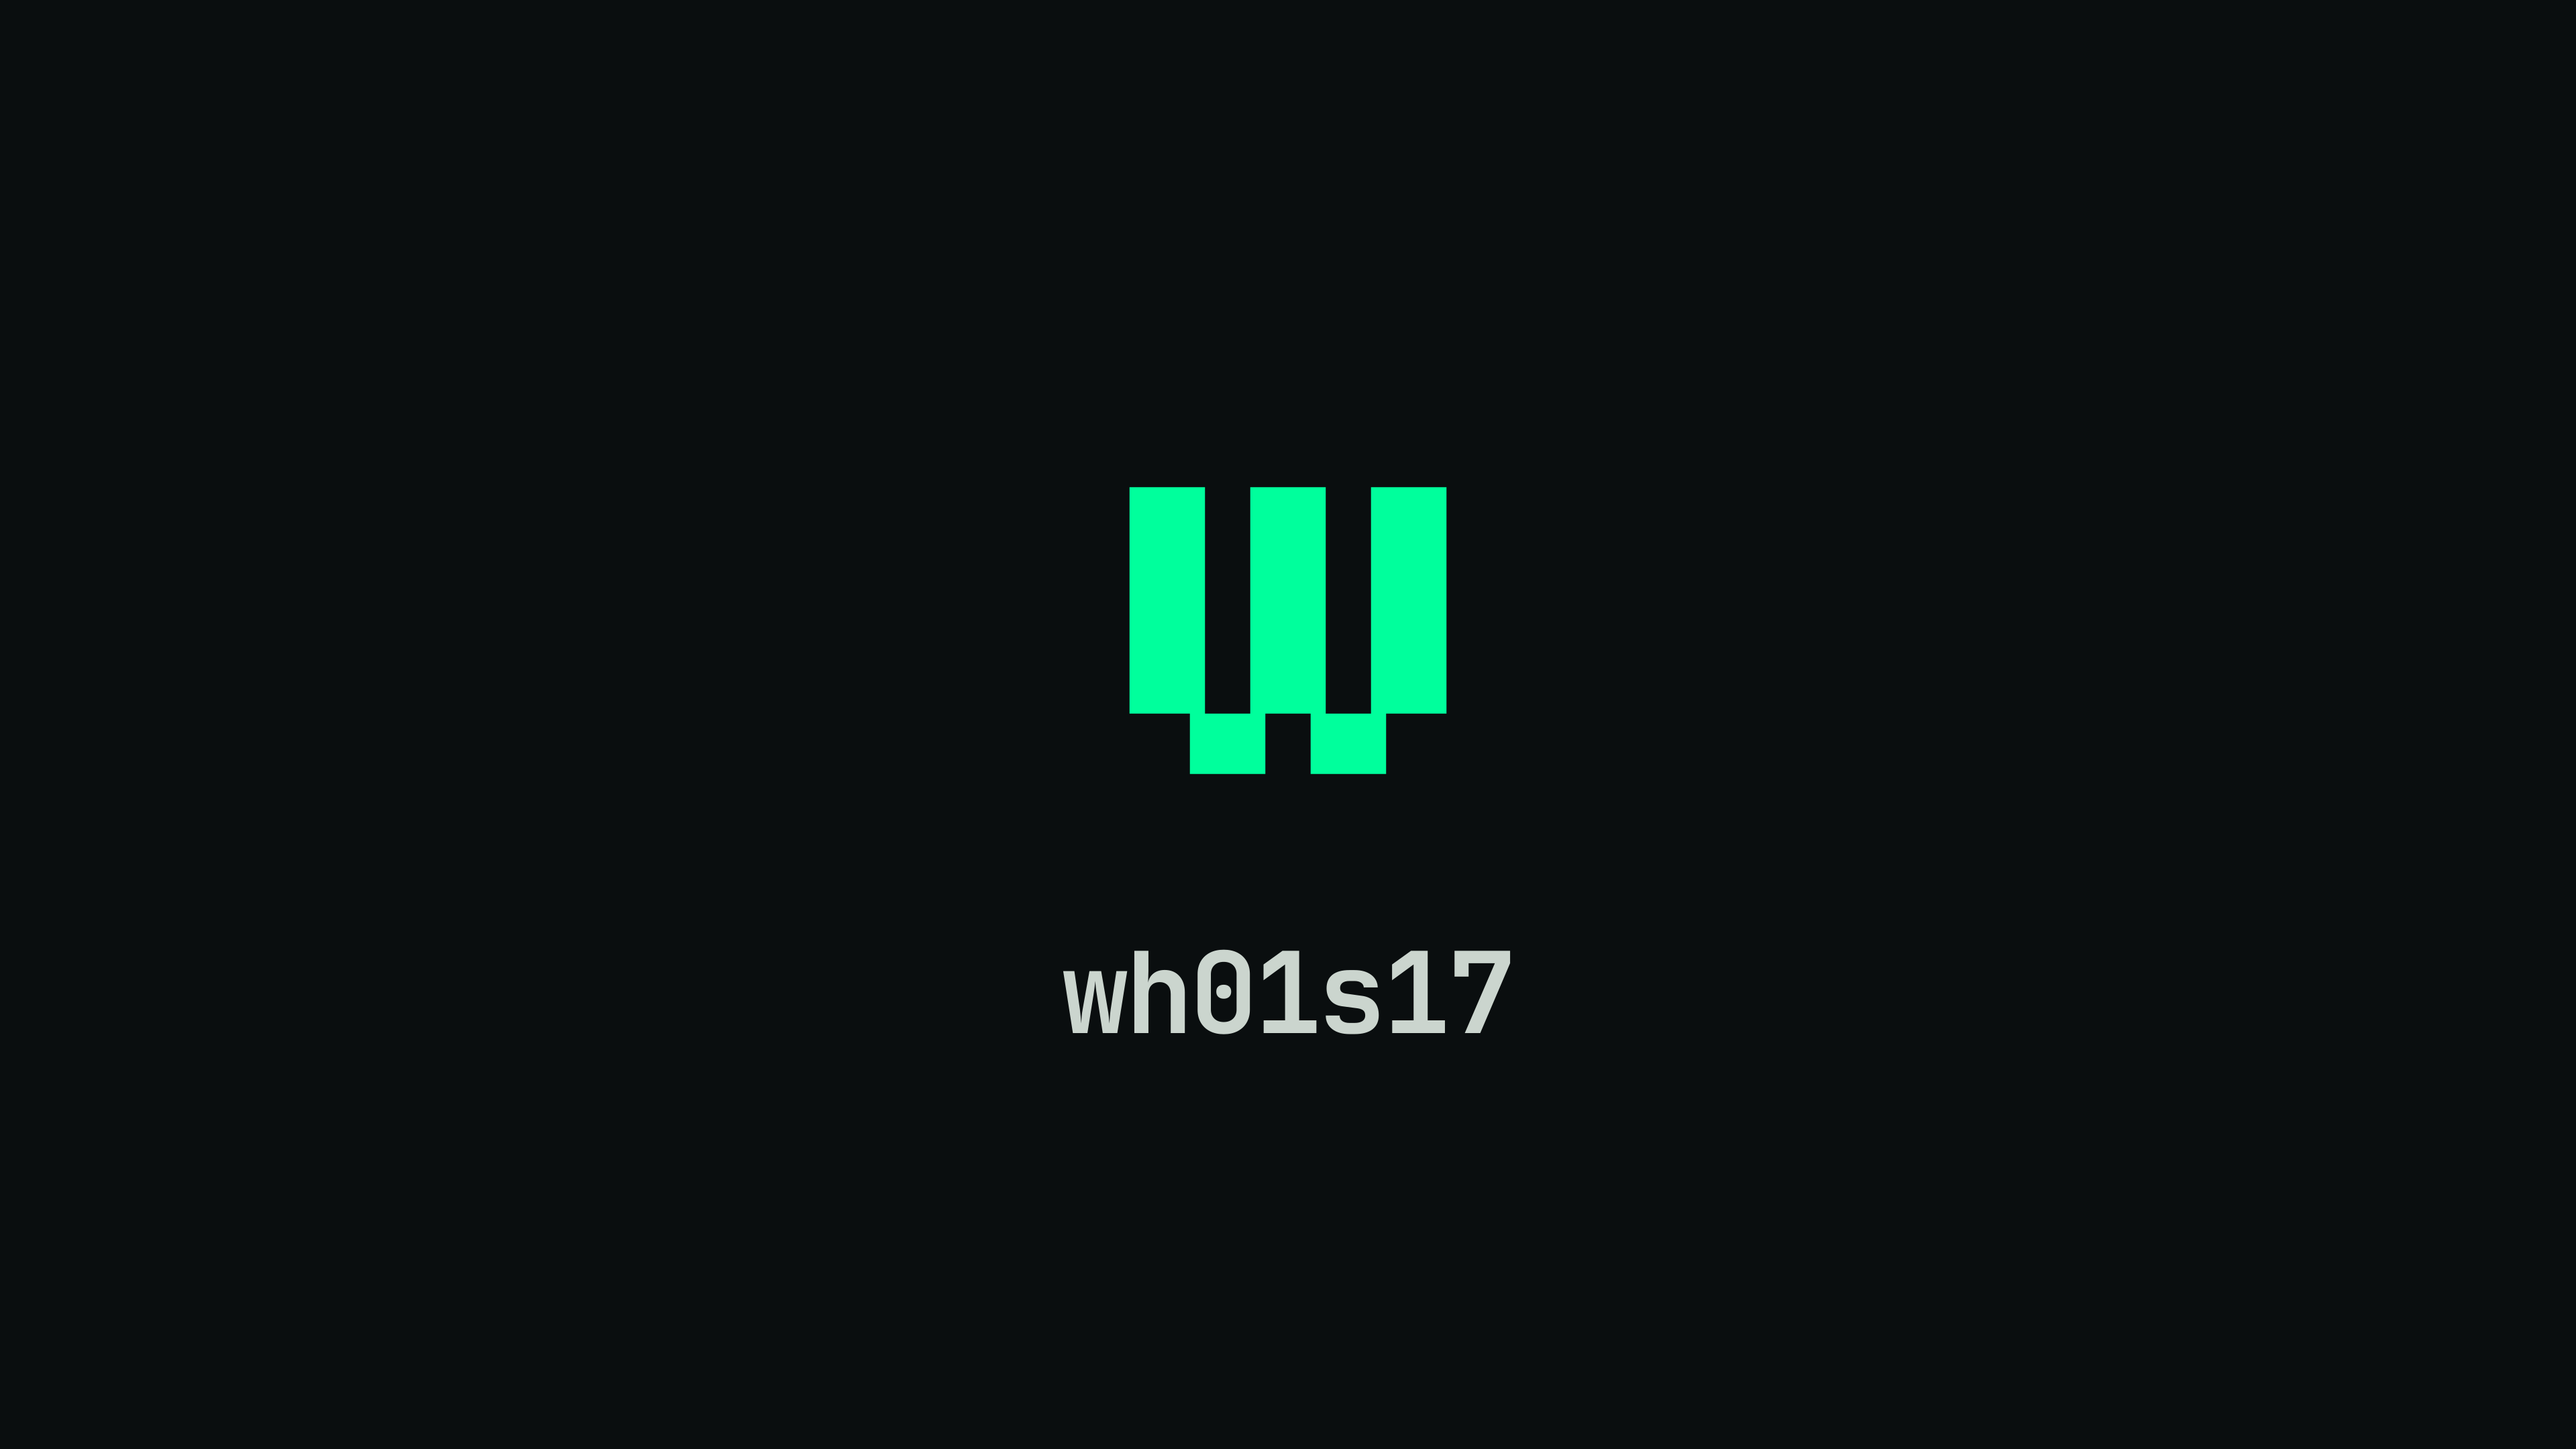
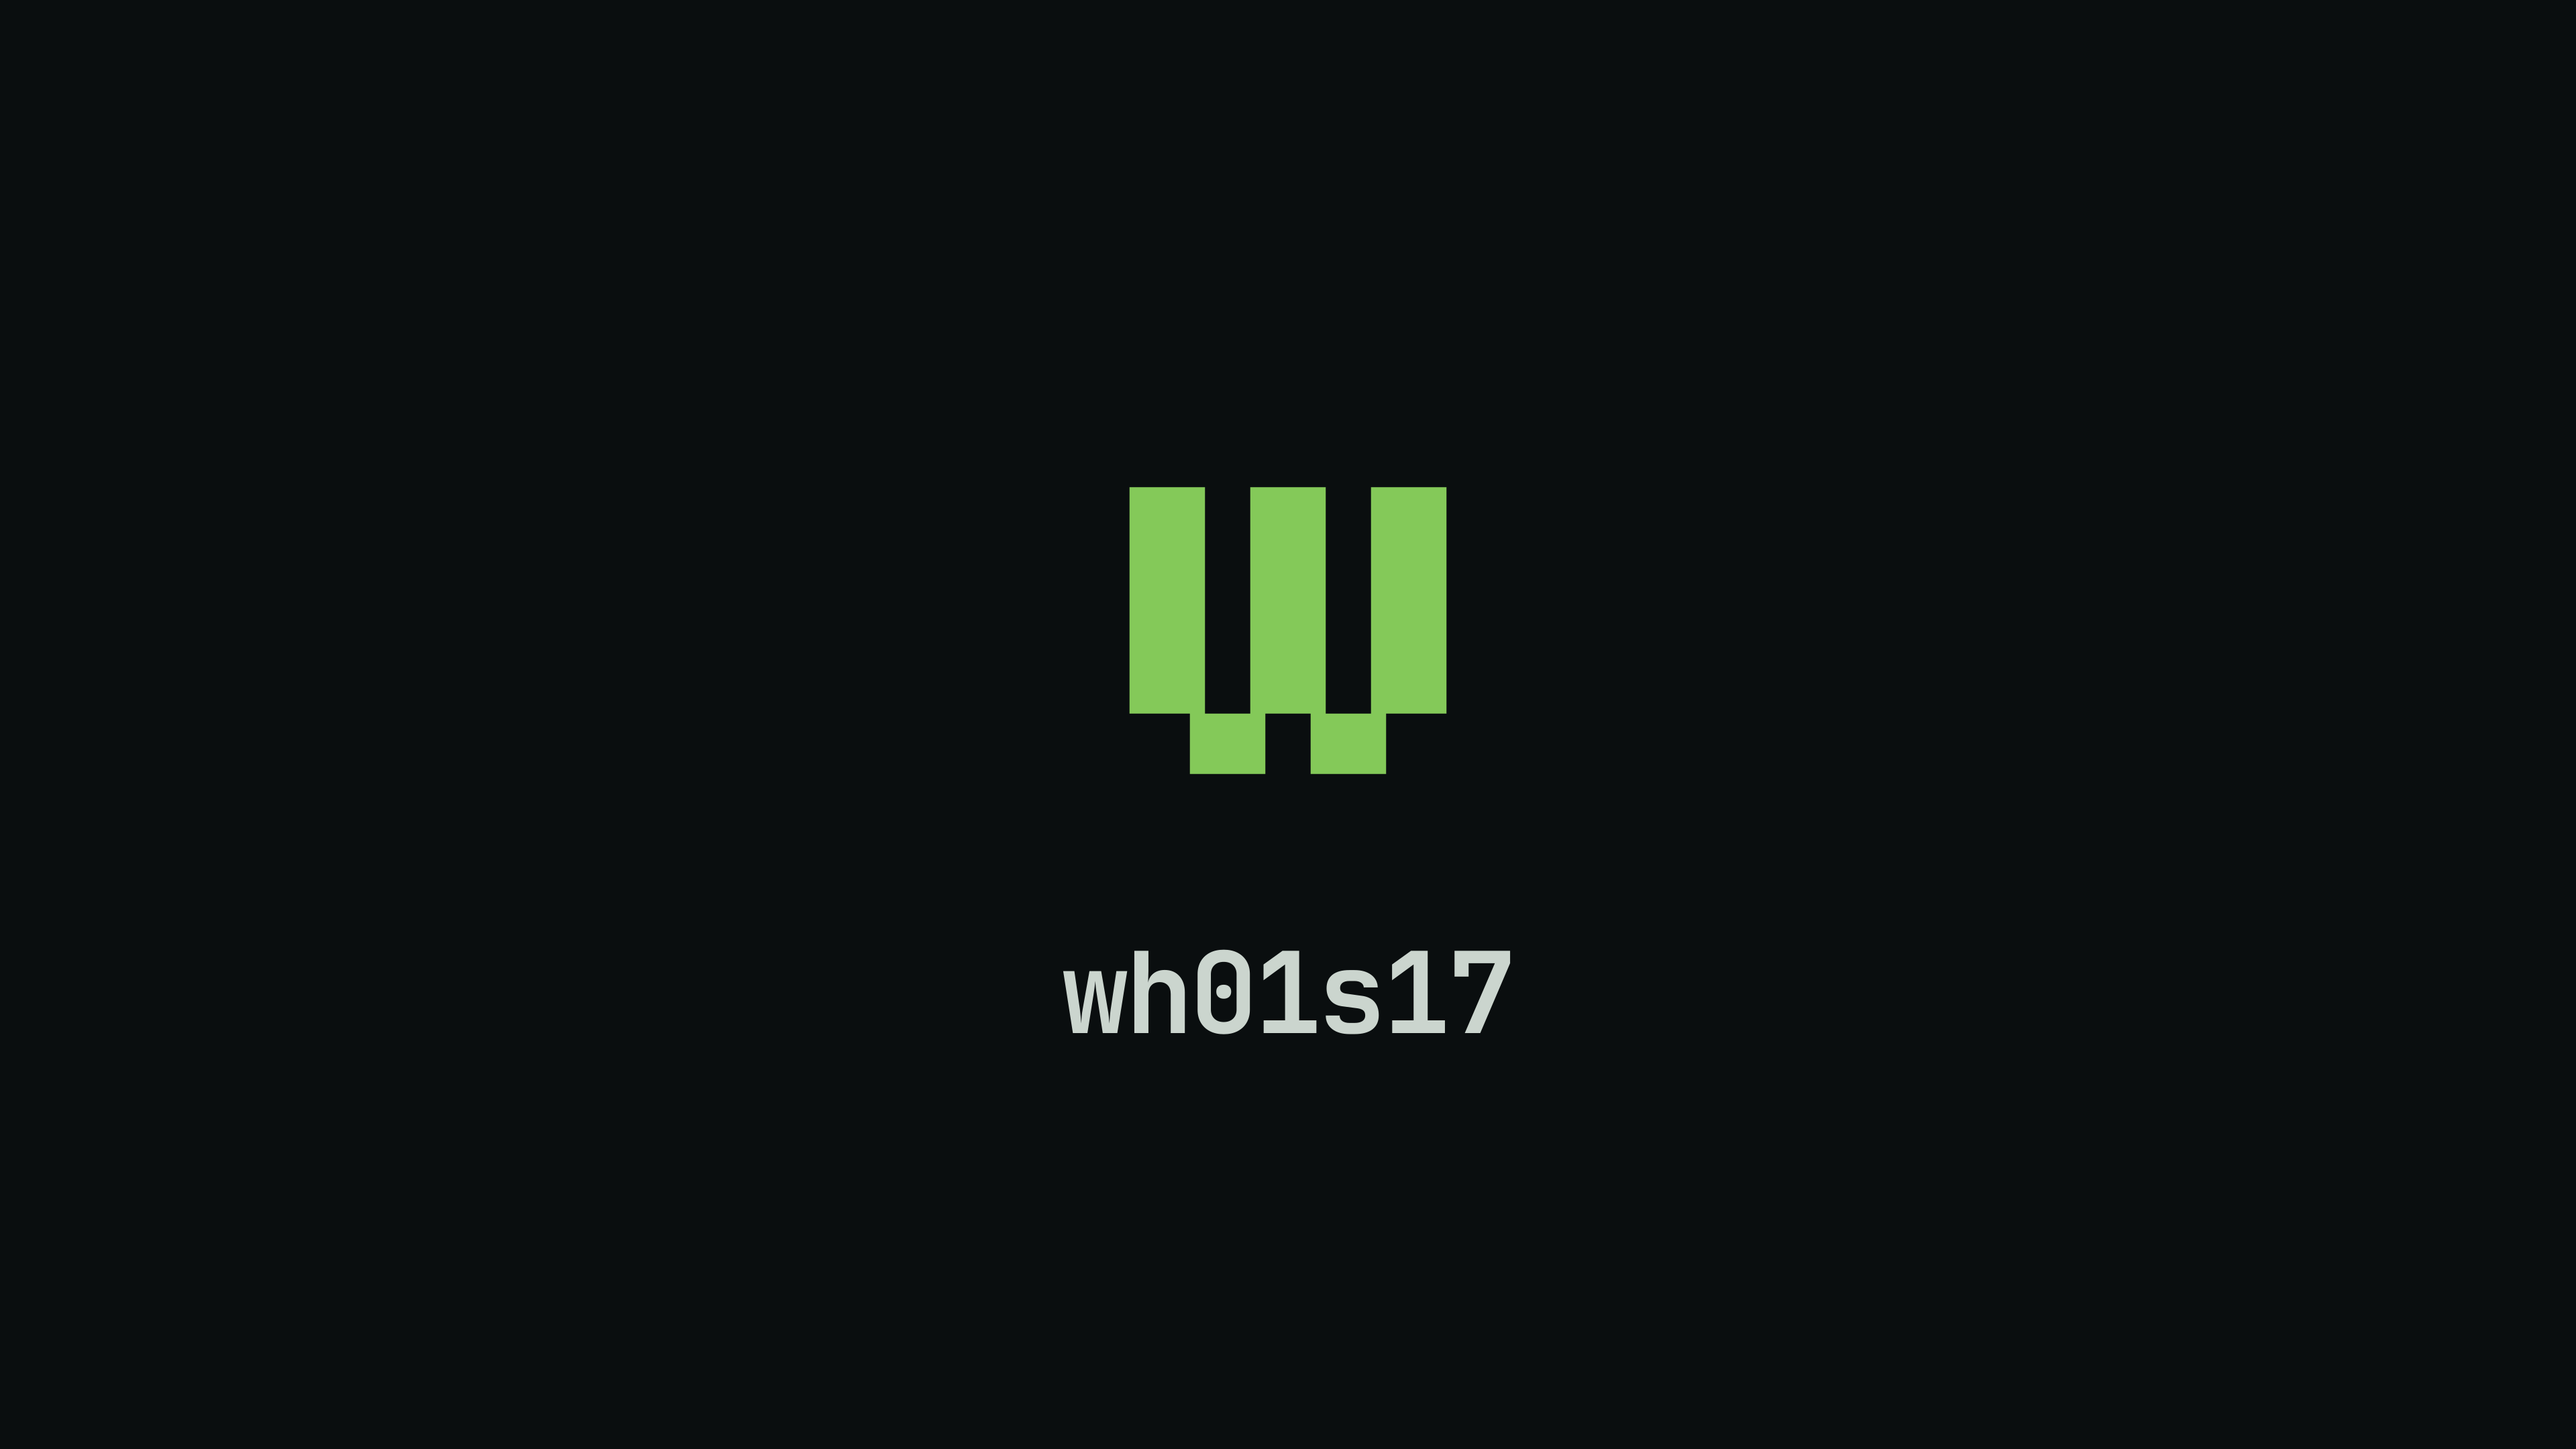
style(theme): soften wh01s17 accent to lime green

Changed region(s): [[0.4375, 0.3102, 0.5625, 0.5583]]

diff --git a/desktop/.config/omarchy/themes/wh01s17/DESIGN.md b/desktop/.config/omarchy/themes/wh01s17/DESIGN.md
@@ -9,7 +9,7 @@ The wallpaper system is intentionally private and minimal: deep negative space w
 - Exact `wh01s17` spelling rendered with JetBrains Mono Nerd Font.
 - Flat colors only: no CRT scanlines, noise, glow, gradients, faux-terminal windows, or 3D imagery.
 - No slogans, profession labels, terminal prompts, geographic data, or operating-system metadata.
-- Primary palette: `#0a0e0f`, `#11161a`, `#cbd5ce`, and `#00ff9c`.
+- Primary palette: `#0a0e0f`, `#11161a`, `#cbd5ce`, and `#84c959`.
 - The mark and wordmark form one vertically and horizontally centered composition.
 - Large quiet regions remain available for application windows and desktop widgets.
 

diff --git a/desktop/.config/omarchy/themes/wh01s17/README.md b/desktop/.config/omarchy/themes/wh01s17/README.md
@@ -9,7 +9,7 @@ An Omarchy theme derived from the visual system of [wh01s17.com](https://www.wh0
 - Raised surface: `#171e23`
 - Border: `#243038`
 - Foreground: `#cbd5ce`
-- Signal: `#00ff9c`
+- Signal: `#84c959`
 - Diagnostic cyan: `#45d9ea`
 - Warning amber: `#e8b53f`
 - Fault red: `#ff6b66`
